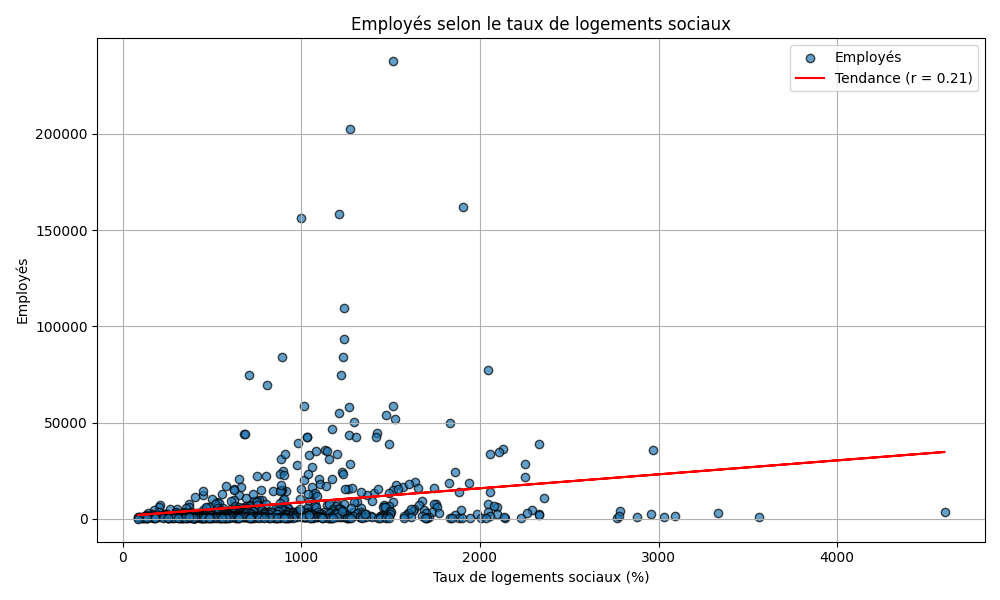
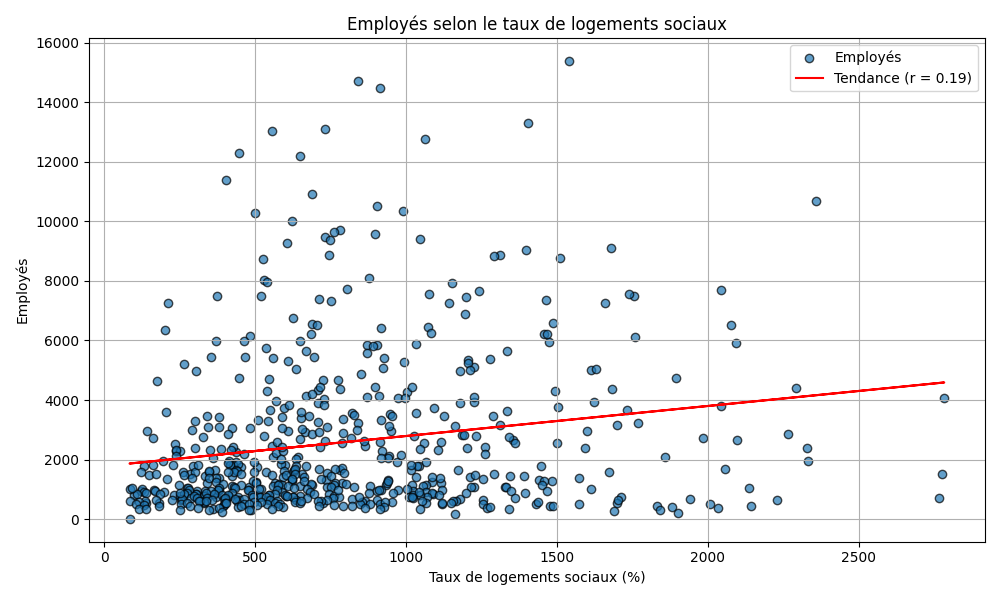
update graphiques

diff --git a/do/main_code.py b/do/main_code.py
@@ -139,30 +139,41 @@ csp_moyennes["AAV2020"] = csp_moyennes["AAV2020"].astype(str).str.zfill(3)
 
 # Fusion avec le taux de logements sociaux
 df_csp = csp_moyennes.merge(logements_sociaux_taux_df[["AAV2020", "PCT_SOCIAUX"]], on="AAV2020", how="left")
-df_csp["PCT_SOCIAUX"] = df_csp["PCT_SOCIAUX"] * 100
-
-# Titres explicites pour chaque CSP
-titres_csp = {
+df_csp["PCT_SOCIAUX"] = df_csp["PCT_SOCIAUX"] * 100# Titres explicites pour chaque catégorie
+titres = {
     "CS2": "Artisans, commerçants, chefs d'entreprise",
     "CS3": "Cadres et professions intellectuelles supérieures",
     "CS5": "Employés",
     "CS6": "Ouvriers"
 }
 
+# Générer un graphique pour chaque colonne CSP avec filtrage des extrêmes
 for col in cols:
-    df_plot = df_csp.dropna(subset=["PCT_SOCIAUX", col])
+    df_temp = population_metier_df.copy()
+    df_temp = df_temp.merge(logements_sociaux_taux_df[["AAV2020", "PCT_SOCIAUX"]], on="AAV2020", how="left")
+    df_temp = df_temp.dropna(subset=[col, "PCT_SOCIAUX"])
+
+    # Filtrage des extrêmes (1er au 99e percentile)
+    y_max = df_temp[col].quantile(0.99)
+    x_max = df_temp["PCT_SOCIAUX"].quantile(0.99)
+    df_filt = df_temp[(df_temp[col] < y_max) & (df_temp["PCT_SOCIAUX"] < x_max)]
+
+    x = df_filt["PCT_SOCIAUX"] * 100
+    y = df_filt[col]
+
     plt.figure(figsize=(10, 6))
-    plt.scatter(df_plot["PCT_SOCIAUX"], df_plot[col], alpha=0.7, edgecolors='k', label=titres_csp[col])
+    plt.scatter(x, y, alpha=0.7, edgecolors='k', label=titres[col])
 
-    if len(df_plot) > 1:
-        m, b = np.polyfit(df_plot["PCT_SOCIAUX"], df_plot[col], 1)
-        r = np.corrcoef(df_plot["PCT_SOCIAUX"], df_plot[col])[0, 1]
-        plt.plot(df_plot["PCT_SOCIAUX"], m * df_plot["PCT_SOCIAUX"] + b, color='red',
-                 label=f'Tendance (r = {r:.2f})')
+    if len(x) > 1:
+        m, b = np.polyfit(x, y, 1)
+        r = np.corrcoef(x, y)[0, 1]
+        plt.plot(x, m * x + b, color='red', label=f'Tendance (r = {r:.2f})')
+    else:
+        print(f"⚠ Pas assez de données pour tracer une tendance pour {col}")
 
-    plt.title(f"{titres_csp[col]} selon le taux de logements sociaux")
+    plt.title(f"{titres[col]} selon le taux de logements sociaux")
     plt.xlabel("Taux de logements sociaux (%)")
-    plt.ylabel(titres_csp[col])
+    plt.ylabel(titres[col])
     plt.grid(True)
     plt.legend()
     plt.tight_layout()
@@ -170,5 +181,5 @@ for col in cols:
     filename = f"{col}_vs_logements_sociaux.png"
     full_path = os.path.join(output_path, filename)
     plt.savefig(full_path)
-    print(f"✅ Graphique sauvegardé : {full_path}")
+    print(f"✅ Graphique filtré sauvegardé : {full_path}")
     plt.show()
